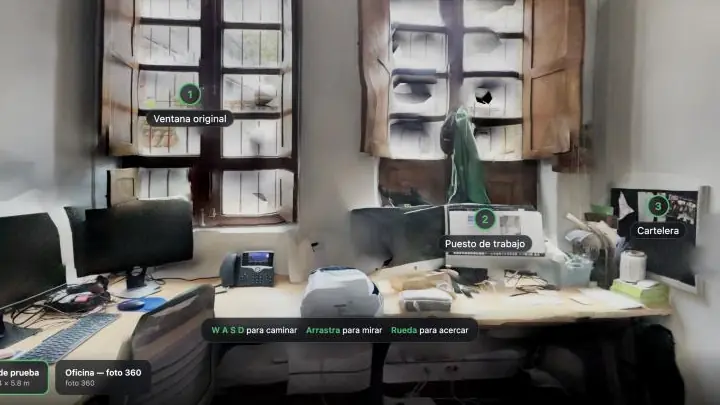
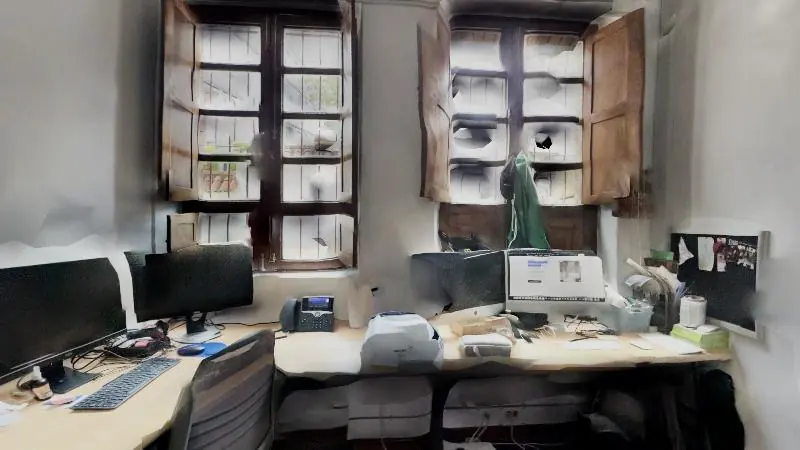
Salidas de campo: botón para volver, foto 360 limpia y preguntas sin numerar

diff --git a/salidas.html b/salidas.html
@@ -10,9 +10,9 @@
   <link rel="preconnect" href="https://fonts.googleapis.com">
   <link rel="preconnect" href="https://fonts.gstatic.com" crossorigin>
   <link rel="stylesheet" href="https://fonts.googleapis.com/css2?family=Gelasio:ital,wght@0,400..700;1,400..700&family=Inter:wght@400;500;600&display=swap">
-  <link rel="stylesheet" href="assets/hub.css?v=20261020s">
-  <link rel="stylesheet" href="assets/salidas.css?v=20261020s">
-  <script src="config.js?v=20261020s"></script>
+  <link rel="stylesheet" href="assets/hub.css?v=20261020t">
+  <link rel="stylesheet" href="assets/salidas.css?v=20261020t">
+  <script src="config.js?v=20261020t"></script>
 </head>
 <body class="page-salidas">
   <div class="blob-wrap" aria-hidden="true">
@@ -25,7 +25,7 @@
   </div>
 
   <main class="hub trip">
-    <a class="back" id="back" href="index.html">← Volver</a>
+    <a class="back" id="back" href="index.html"><span aria-hidden="true">←</span> <span id="backText">Volver</span></a>
     <img class="brand" src="assets/logo-uniandes-educacion.png" width="1000" height="217" alt="Universidad de los Andes · Facultad de Educación">
 
     <header class="hub-head">
@@ -51,7 +51,7 @@
     <a class="tour" id="tour" target="_blank" rel="noopener">
       <span class="tour-media">
         <img id="tourImg" alt="" width="720" height="405">
-        <span class="tour-badge">360°</span>
+        <span class="tour-badge"><span aria-hidden="true">↻</span> Vista 360°</span>
       </span>
       <span class="tour-body">
         <span class="tour-eyebrow">Recorrido virtual</span>
@@ -61,7 +61,12 @@
       </span>
     </a>
 
-    <nav class="links trip-more" id="more" aria-label="Más información"></nav>
+    <section class="trip-help" id="help">
+      <h2>¿Tienes preguntas?</h2>
+      <div class="trip-buttons" id="more"></div>
+    </section>
+
+    <a class="back-bottom" id="backBottom" href="index.html"><span aria-hidden="true">←</span> <span id="backBottomText">Volver al inicio</span></a>
 
     <footer class="hub-foot">
       <div class="shapes" aria-hidden="true"><i class="s1"></i><i class="s2"></i><i class="s3"></i><i class="s4"></i><i class="s5"></i></div>
@@ -69,8 +74,8 @@
     </footer>
   </main>
 
-  <script src="assets/nodes.js?v=20261020s"></script>
-  <script src="assets/tracker.js?v=20261020s"></script>
+  <script src="assets/nodes.js?v=20261020t"></script>
+  <script src="assets/tracker.js?v=20261020t"></script>
   <script>
     (function () {
       var C = window.HUB_CONFIG || {};
@@ -87,8 +92,13 @@
       // volver al nodo con la misma licenciatura y el mismo origen del QR
       var back = new URLSearchParams();
       ["lic", "src", "utm_campaign"].forEach(function (k) { if (q.get(k)) back.set(k, q.get(k)); });
-      document.getElementById("back").href = "index.html" + (back.toString() ? "?" + back.toString() : "");
-      if (program) document.getElementById("back").textContent = "← Licenciatura en " + program.name;
+      var backHref = "index.html" + (back.toString() ? "?" + back.toString() : "");
+      document.getElementById("back").href = backHref;
+      document.getElementById("backBottom").href = backHref;
+      if (program) {
+        document.getElementById("backText").textContent = "Licenciatura en " + program.name;
+        document.getElementById("backBottomText").textContent = "Volver a Licenciatura en " + program.name;
+      }
 
       document.getElementById("privacy").textContent = C.privacyNote || "";
 
@@ -109,13 +119,13 @@
       var list = N ? N.linksFor(C, program) : [];
       list.filter(function (l) { return /asesor|becas/i.test(l.id + " " + l.label) && !l.embed; }).forEach(function (l) {
         var a = document.createElement("a");
-        a.className = "link"; a.href = l.url; a.target = "_blank"; a.rel = "noopener";
-        var t = document.createElement("span"); t.className = "label"; t.textContent = l.label; a.appendChild(t);
-        var ar = document.createElement("span"); ar.className = "arrow"; ar.setAttribute("aria-hidden", "true"); ar.textContent = "→"; a.appendChild(ar);
+        a.className = "trip-btn"; a.href = l.url; a.target = "_blank"; a.rel = "noopener";
+        a.textContent = l.label;
+        var ar = document.createElement("span"); ar.setAttribute("aria-hidden", "true"); ar.textContent = " ↗"; a.appendChild(ar);
         a.addEventListener("click", function () { if (window.QRHub) QRHub.trackClick(l); });
         more.appendChild(a);
       });
-      more.hidden = !more.children.length;
+      document.getElementById("help").hidden = !more.children.length;
 
       if (window.QRHub) QRHub.start();
     })();

diff --git a/assets/salidas.css b/assets/salidas.css
@@ -1,10 +1,14 @@
 /* Página «Salidas de campo»: misma base que la página pública (hub.css) */
 .trip { padding-top: 40px; }
-.back {
-  align-self: flex-start; margin-bottom: 22px; font: 600 13px var(--sans); color: var(--ink-2); text-decoration: none;
-  border-bottom: 1.5px solid transparent;
+/* botón para volver (arriba y al final) */
+.back, .back-bottom {
+  display: inline-flex; align-items: center; gap: 8px; text-decoration: none; color: var(--ink);
+  border: 1.5px solid var(--rule); border-radius: 999px; font: 600 14px var(--sans);
+  transition: background-color .15s ease, color .15s ease;
 }
-.back:hover, .back:focus-visible { color: var(--lic-ink); border-bottom-color: currentColor; outline: none; }
+.back { align-self: flex-start; margin-bottom: 26px; padding: 8px 16px 8px 13px; background: var(--paper); position: relative; z-index: 2; }
+.back-bottom { justify-content: center; margin-top: 30px; padding: 13px 18px; }
+.back:hover, .back:focus-visible, .back-bottom:hover, .back-bottom:focus-visible { background: var(--ink); color: var(--paper); outline: none; }
 .trip .hub-head h1 em { display: block; font-style: italic; color: var(--lic-ink); }
 .lead { margin: 0; font: 400 20px/1.4 var(--serif); color: var(--ink-2); max-width: 460px; }
 
@@ -31,9 +35,9 @@
 .tour-media { position: relative; display: block; aspect-ratio: 16 / 9; background: #2a2a28; }
 .tour-media img { width: 100%; height: 100%; object-fit: cover; display: block; }
 .tour-badge {
-  position: absolute; top: 12px; right: 12px; width: 58px; height: 58px; border-radius: 50%; display: grid; place-items: center;
-  background: var(--red); color: #f6f1e3; font: italic 600 19px var(--serif); transform: rotate(10deg);
-  box-shadow: 0 6px 14px rgba(0, 0, 0, .25);
+  position: absolute; left: 12px; bottom: 12px; display: inline-flex; align-items: center; gap: 6px;
+  background: rgba(20, 20, 20, .72); color: #fff; border-radius: 999px; padding: 6px 12px 6px 10px;
+  font: 600 12.5px var(--sans); backdrop-filter: blur(4px);
 }
 .tour-body { display: flex; flex-direction: column; gap: 4px; padding: 16px 18px 18px; }
 .tour-eyebrow { font: 600 11.5px var(--sans); letter-spacing: .08em; text-transform: uppercase; color: var(--lic-ink); }
@@ -45,4 +49,13 @@
 }
 .tour:hover .tour-cta { background: var(--lic-ink); }
 
-.trip-more { margin-top: 30px; }
+/* preguntas: botones secundarios, sin numeración */
+.trip-help { margin-top: 34px; padding-top: 18px; border-top: 1.5px solid var(--rule); }
+.trip-help h2 { margin: 0 0 14px; font: italic 600 22px var(--serif); letter-spacing: -.01em; }
+.trip-buttons { display: flex; flex-direction: column; gap: 10px; }
+.trip-btn {
+  display: flex; justify-content: space-between; align-items: center; text-decoration: none; color: var(--ink);
+  background: #fffdf8; border-radius: 12px; padding: 14px 16px; font: 500 17px var(--serif);
+  box-shadow: 0 0 0 1px rgba(20, 20, 20, .10);
+}
+.trip-btn:hover, .trip-btn:focus-visible { box-shadow: 0 0 0 2px var(--lic-ink); outline: none; }
